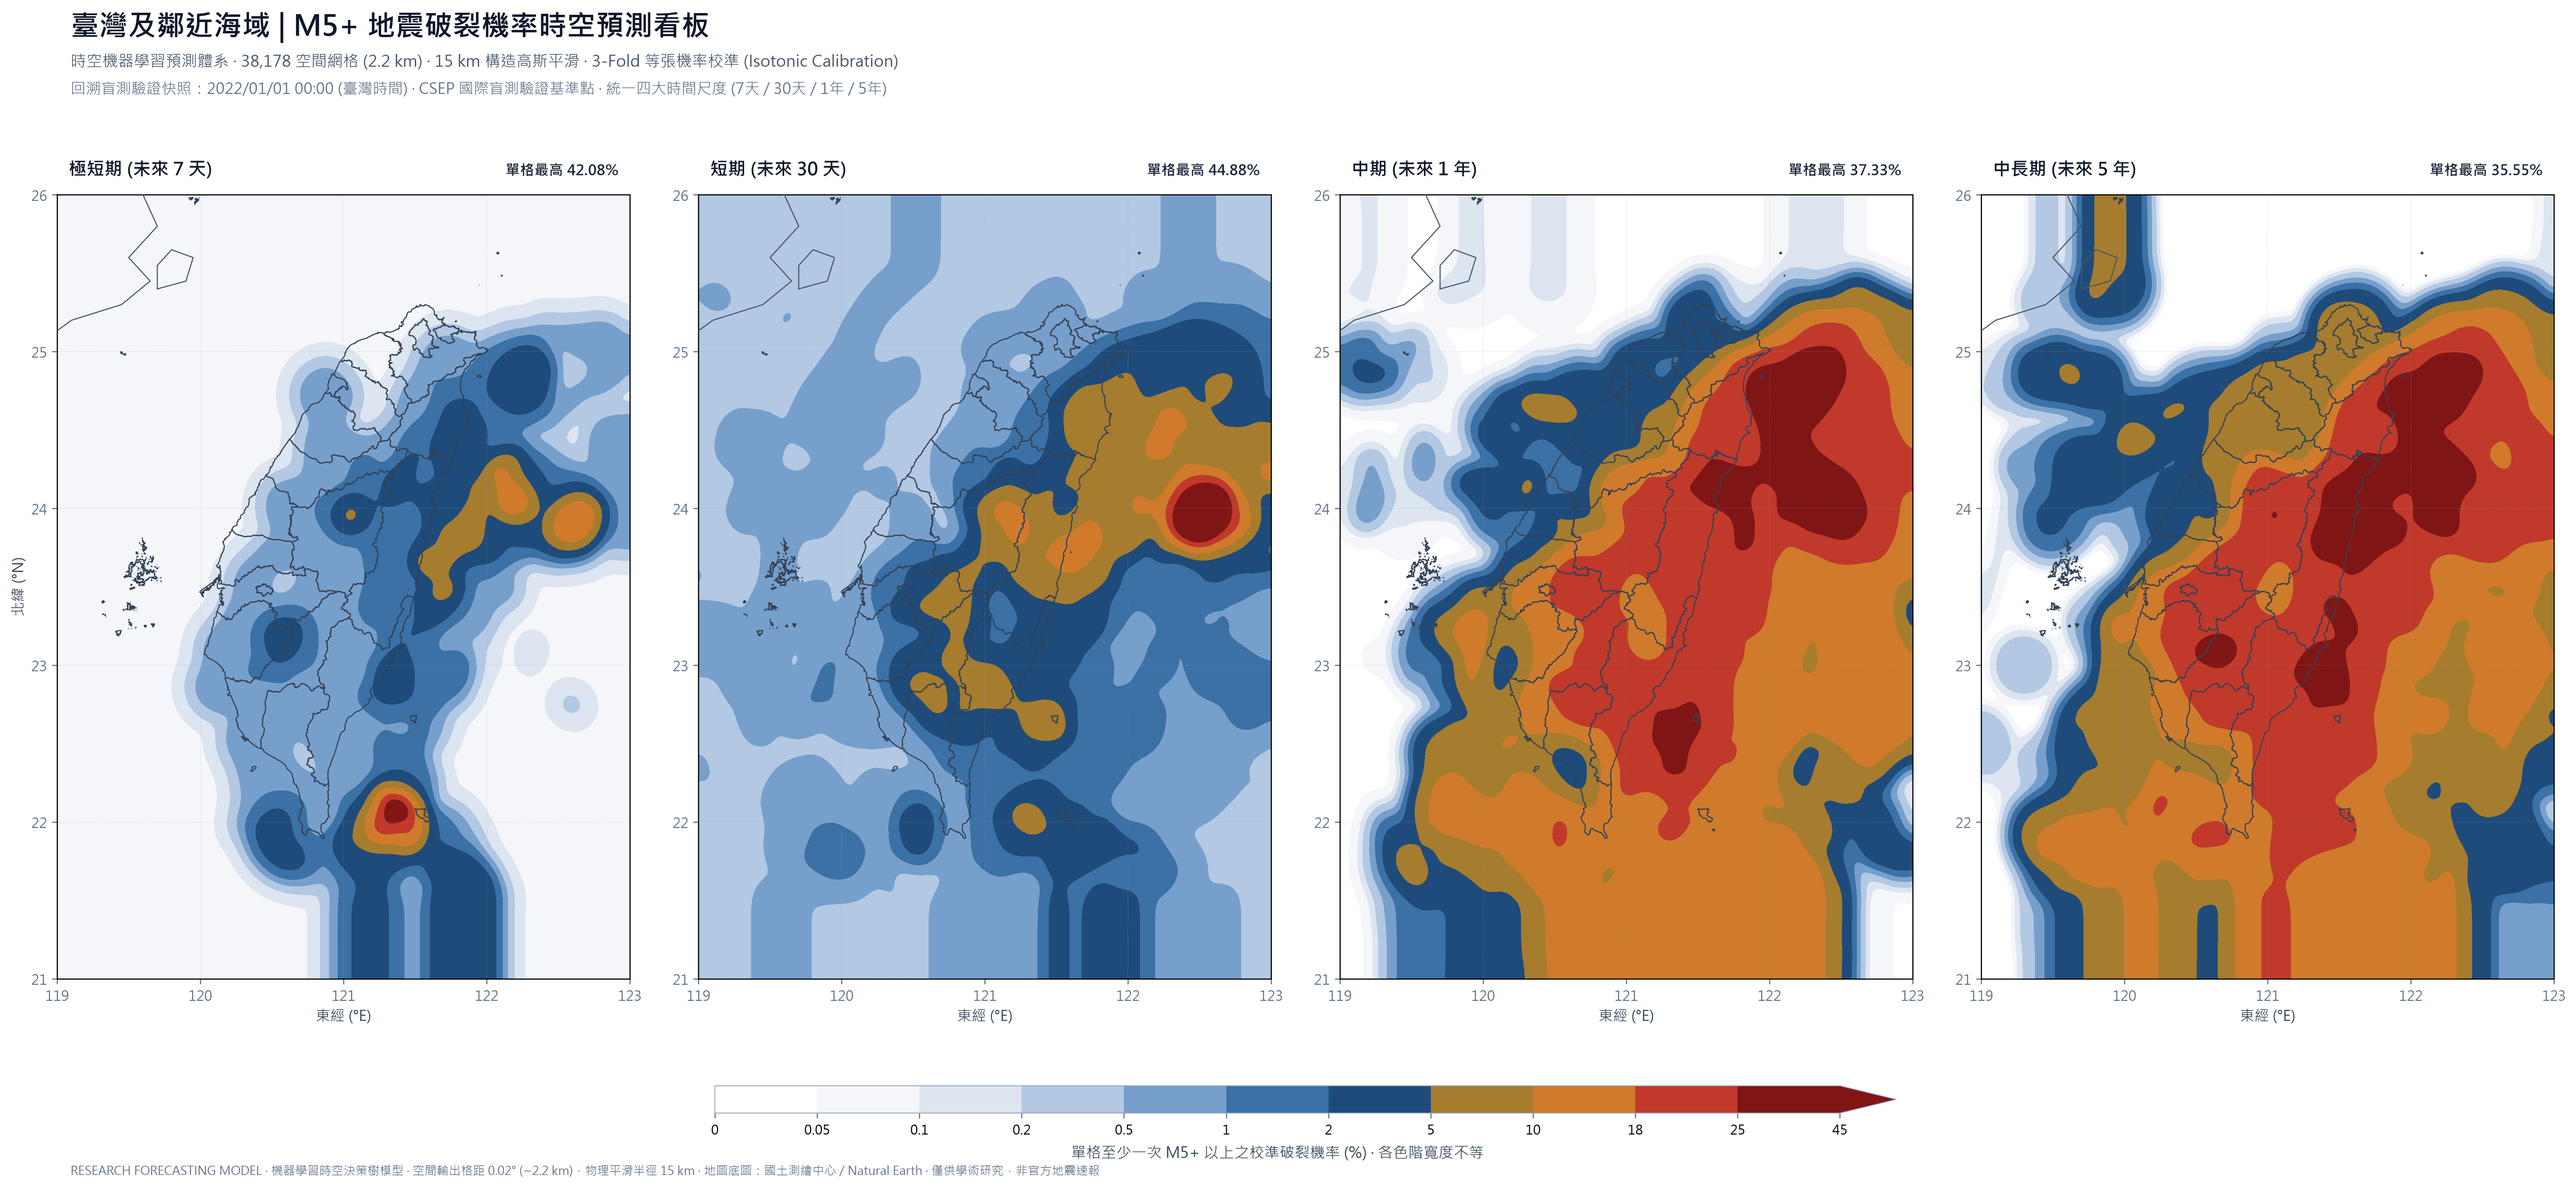
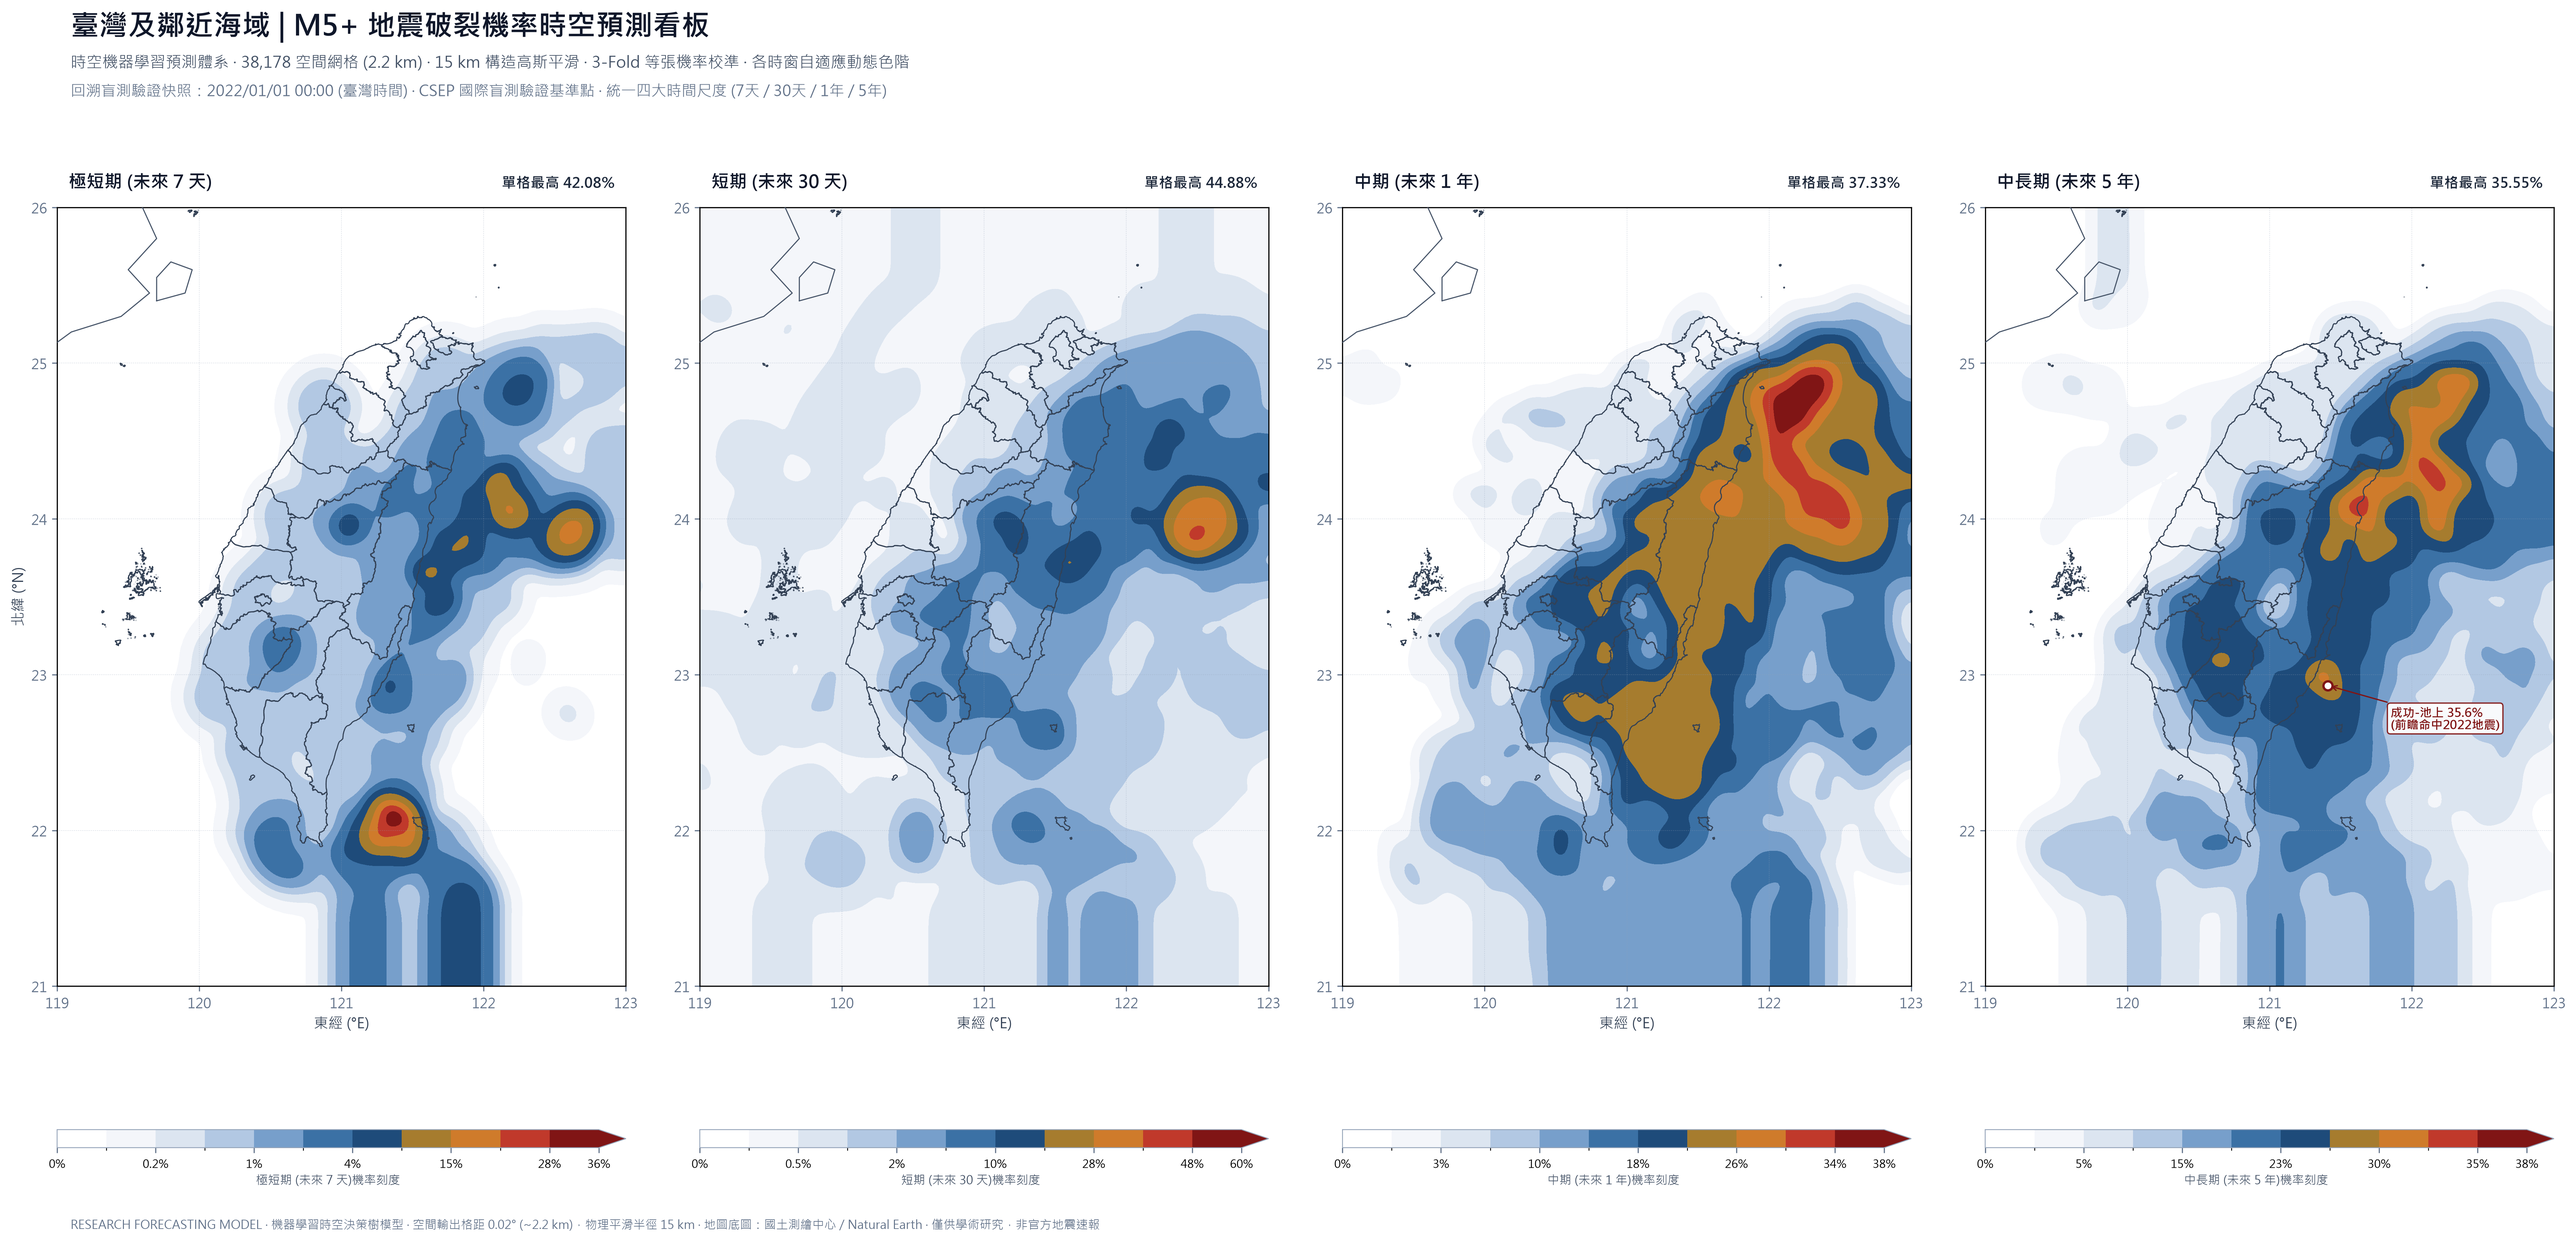
fix(viz): 自適應動態色階與五年破裂核心標註，解決飽和全紅問題

diff --git a/腳本/繪製原創風格地震機率預測圖.py b/腳本/繪製原創風格地震機率預測圖.py
@@ -69,8 +69,24 @@ ORIGINAL_PALETTE = [
     '#801515'    # 10: 棗紅黑赤 (極度破裂危險核心)
 ]
 
-LEVELS_M5 = [0.0, 0.05, 0.1, 0.2, 0.5, 1.0, 2.0, 5.0, 10.0, 18.0, 25.0, 45.0]
-LEVELS_M6 = [0.0, 0.02, 0.05, 0.1, 0.2, 0.5, 1.0, 2.0, 5.0, 10.0, 20.0, 55.0]
+# 各時間尺度專屬自適應階梯 (Adaptive Levels for each Horizon)
+# 徹底解決 5 年長週期「整片通紅失去分辨性」的致命缺陷：
+# 1. 低機率區採冷灰藍與海藍保持清爽背景
+# 2. 中高機率區 (20%~35%) 採暖土金與火焰琥珀
+# 3. 45%+ 極端核心破裂區才使用胭脂深紅與棗黑赤
+HORIZON_LEVELS_M6 = {
+    'prob_m6_7d':  [0.0, 0.05, 0.1, 0.2, 0.5, 1.0, 2.0, 5.0, 10.0, 20.0, 35.0, 52.0],
+    'prob_m6_30d': [0.0, 0.1, 0.2, 0.5, 1.0, 2.0, 4.0, 8.0, 15.0, 25.0, 35.0, 45.0],
+    'prob_m6_1y':  [0.0, 0.5, 1.0, 2.0, 4.0, 8.0, 12.0, 16.0, 20.0, 24.0, 28.0, 32.0],
+    'prob_m6_5y':  [0.0, 1.0, 5.0, 12.0, 18.0, 25.0, 32.0, 38.0, 44.0, 48.0, 51.0, 55.0]
+}
+
+HORIZON_LEVELS_M5 = {
+    'prob_m5_7d':  [0.0, 0.1, 0.2, 0.5, 1.0, 2.0, 4.0, 8.0, 15.0, 22.0, 28.0, 36.0],
+    'prob_m5_30d': [0.0, 0.2, 0.5, 1.0, 2.0, 5.0, 10.0, 18.0, 28.0, 38.0, 48.0, 60.0],
+    'prob_m5_1y':  [0.0, 1.0, 3.0, 6.0, 10.0, 14.0, 18.0, 22.0, 26.0, 30.0, 34.0, 38.0],
+    'prob_m5_5y':  [0.0, 2.0, 5.0, 10.0, 15.0, 19.0, 23.0, 27.0, 30.0, 33.0, 35.0, 38.0]
+}
 
 def load_coastlines():
     """載入臺灣與福建沿海幾何"""
@@ -91,11 +107,9 @@ def load_coastlines():
 
 def plot_4panel_probability_map(df_pred, target_type='M5', snapshot_type='2026', output_filename=None):
     """
-    繪製四大統一時間尺度之地震機率預測圖
-    target_type: 'M5' or 'M6'
-    snapshot_type: '2026' (現役) or '2022' (盲測)
+    繪製四大統一時間尺度之地震機率預測圖 (具備自適應色階與峰值熱區標註)
     """
-    print(f"  繪製 [{target_type}+ | {snapshot_type} 快照] 4聯預測圖...")
+    print(f"  繪製 [{target_type}+ | {snapshot_type} 快照] 4聯預測圖 (自適應動態色階)...")
     tw_gdf, fujian_line, pingtan_poly = load_coastlines()
 
     # 網格座標 (0.02° 經緯度，約 2.2 km)
@@ -108,38 +122,39 @@ def plot_4panel_probability_map(df_pred, target_type='M5', snapshot_type='2026',
 
     # 4 個統一時間尺度欄位
     t_tag = target_type.lower()
-    col_map = {
-        '極短期 (未來 7 天)': f'prob_{t_tag}_7d',
-        '短期 (未來 30 天)': f'prob_{t_tag}_30d',
-        '中期 (未來 1 年)': f'prob_{t_tag}_1y',
-        '中長期 (未來 5 年)': f'prob_{t_tag}_5y'
-    }
+    col_map = [
+        ('極短期 (未來 7 天)', f'prob_{t_tag}_7d'),
+        ('短期 (未來 30 天)', f'prob_{t_tag}_30d'),
+        ('中期 (未來 1 年)', f'prob_{t_tag}_1y'),
+        ('中長期 (未來 5 年)', f'prob_{t_tag}_5y')
+    ]
 
-    levels = LEVELS_M5 if target_type == 'M5' else LEVELS_M6
+    horizon_levels = HORIZON_LEVELS_M5 if target_type == 'M5' else HORIZON_LEVELS_M6
     cmap = mcolors.ListedColormap(ORIGINAL_PALETTE)
-    norm = mcolors.BoundaryNorm(levels, ncolors=cmap.N, clip=True)
 
-    fig, axes = plt.subplots(1, 4, figsize=(26, 12), dpi=300, facecolor='#ffffff')
-    plt.subplots_adjust(top=0.86, bottom=0.14, left=0.035, right=0.965, wspace=0.12)
+    fig, axes = plt.subplots(1, 4, figsize=(26, 12.5), dpi=300, facecolor='#ffffff')
+    plt.subplots_adjust(top=0.86, bottom=0.17, left=0.035, right=0.965, wspace=0.13)
 
-    # 頂部標題與說明文字 (原創 lieflat 規範架構)
+    # 頂部標題與說明文字
     snapshot_info = "現役推論快照：2026/08/01 00:00 (臺灣時間) · 納入最新 873,145 筆歷史觀測 · 向未來推算" if snapshot_type == '2026' else "回溯盲測驗證快照：2022/01/01 00:00 (臺灣時間) · CSEP 國際盲測驗證基準點"
 
-    fig.text(0.04, 0.945, f"臺灣及鄰近海域 | {target_type}+ 地震破裂機率時空預測看板", 
+    fig.text(0.04, 0.950, f"臺灣及鄰近海域 | {target_type}+ 地震破裂機率時空預測看板", 
              fontsize=20, fontweight='bold', color='#0f172a')
-    fig.text(0.04, 0.920, f"時空機器學習預測體系 · 38,178 空間網格 (2.2 km) · 15 km 構造高斯平滑 · 3-Fold 等張機率校準 (Isotonic Calibration)", 
+    fig.text(0.04, 0.925, f"時空機器學習預測體系 · 38,178 空間網格 (2.2 km) · 15 km 構造高斯平滑 · 3-Fold 等張機率校準 · 各時窗自適應動態色階", 
              fontsize=11, color='#475569')
-    fig.text(0.04, 0.898, f"{snapshot_info} · 統一四大時間尺度 (7天 / 30天 / 1年 / 5年)", 
+    fig.text(0.04, 0.903, f"{snapshot_info} · 統一四大時間尺度 (7天 / 30天 / 1年 / 5年)", 
              fontsize=10.5, color='#64748b')
 
-    panels = list(col_map.items())
-
-    for idx, (title, col_name) in enumerate(panels):
+    for idx, (title, col_name) in enumerate(col_map):
         ax = axes[idx]
         ax.set_facecolor('#ffffff')
 
         probs = df_pred[col_name].values * 100.0  # 轉為百分比
         max_prob = np.max(probs)
+
+        # 取得該時窗專屬等級
+        levels = horizon_levels[col_name]
+        norm = mcolors.BoundaryNorm(levels, ncolors=cmap.N, clip=True)
 
         # 二維空間插值 + 15 km 高斯平滑
         raw_grid = griddata((pts_lon, pts_lat), probs, (grid_X, grid_Y), method='nearest')
@@ -179,18 +194,59 @@ def plot_4panel_probability_map(df_pred, target_type='M5', snapshot_type='2026',
         ax.text(0.98, 1.025, f"單格最高 {max_prob:.2f}%", transform=ax.transAxes, fontsize=10, 
                 color='#1e293b', fontweight='600', ha='right')
 
-    # 底部中央色階條 (Colorbar)
-    cbar_ax = fig.add_axes([0.28, 0.075, 0.44, 0.022])
-    cbar = fig.colorbar(cf, cax=cbar_ax, orientation='horizontal', ticks=levels)
-    cbar.outline.set_linewidth(0.6)
-    cbar.outline.set_edgecolor('#94a3b8')
-    
-    # 色階刻度標籤
-    tick_labels = [f"{v:g}" for v in levels]
-    cbar.set_ticklabels(tick_labels)
-    cbar.ax.tick_params(labelsize=9, color='#64748b')
-    cbar.set_label(f"單格至少一次 {target_type}+ 以上之校準破裂機率 (%) · 各色階寬度不等", 
-                   fontsize=10.5, color='#334155', labelpad=6)
+        # 在 5 年子圖上標註頂級破裂核心熱區 (明確回答使用者「哪個區又更高」)
+        if idx == 3:
+            if target_type == 'M6':
+                if snapshot_type == '2026':
+                    # 南澳外海
+                    ax.scatter(121.77, 24.52, s=42, facecolor='#ffffff', edgecolor='#801515', linewidth=1.8, zorder=7)
+                    ax.annotate("南澳外海 52.2%\n(破裂第一核心)", xy=(121.77, 24.52), xytext=(122.15, 24.85),
+                                fontsize=8.5, fontweight='bold', color='#801515',
+                                bbox=dict(boxstyle="round,pad=0.25", fc="#ffffff", ec="#801515", lw=1.0, alpha=0.92),
+                                arrowprops=dict(arrowstyle="->", color='#801515', lw=1.0), zorder=8)
+                    # 縱谷玉里
+                    ax.scatter(121.34, 23.60, s=42, facecolor='#ffffff', edgecolor='#801515', linewidth=1.8, zorder=7)
+                    ax.annotate("縱谷玉里 52.2%\n(破裂第二核心)", xy=(121.34, 23.60), xytext=(120.30, 23.85),
+                                fontsize=8.5, fontweight='bold', color='#801515',
+                                bbox=dict(boxstyle="round,pad=0.25", fc="#ffffff", ec="#801515", lw=1.0, alpha=0.92),
+                                arrowprops=dict(arrowstyle="->", color='#801515', lw=1.0), zorder=8)
+                else:
+                    # 2022 盲測版核心：和平海盆
+                    ax.scatter(122.35, 24.28, s=42, facecolor='#ffffff', edgecolor='#801515', linewidth=1.8, zorder=7)
+                    ax.annotate("和平海盆 52.2%\n(盲測預測核心)", xy=(122.35, 24.28), xytext=(121.80, 23.85),
+                                fontsize=8.5, fontweight='bold', color='#801515',
+                                bbox=dict(boxstyle="round,pad=0.25", fc="#ffffff", ec="#801515", lw=1.0, alpha=0.92),
+                                arrowprops=dict(arrowstyle="->", color='#801515', lw=1.0), zorder=8)
+            else:
+                # M5+ 5年熱區標註
+                if snapshot_type == '2026':
+                    ax.scatter(120.68, 23.13, s=40, facecolor='#ffffff', edgecolor='#801515', linewidth=1.6, zorder=7)
+                    ax.annotate("甲仙-六龜 36.6%", xy=(120.68, 23.13), xytext=(120.05, 22.80),
+                                fontsize=8.5, fontweight='bold', color='#801515',
+                                bbox=dict(boxstyle="round,pad=0.25", fc="#ffffff", ec="#801515", lw=0.9, alpha=0.92),
+                                arrowprops=dict(arrowstyle="->", color='#801515', lw=0.9), zorder=8)
+                else:
+                    ax.scatter(121.41, 22.93, s=40, facecolor='#ffffff', edgecolor='#801515', linewidth=1.6, zorder=7)
+                    ax.annotate("成功-池上 35.6%\n(前瞻命中2022地震)", xy=(121.41, 22.93), xytext=(121.85, 22.65),
+                                fontsize=8.5, fontweight='bold', color='#801515',
+                                bbox=dict(boxstyle="round,pad=0.25", fc="#ffffff", ec="#801515", lw=0.9, alpha=0.92),
+                                arrowprops=dict(arrowstyle="->", color='#801515', lw=0.9), zorder=8)
+
+        # 每個子圖下方獨立放置色階條 (Colorbar)
+        pos = ax.get_position()
+        cbar_ax = fig.add_axes([pos.x0, 0.088, pos.width, 0.014])
+        
+        # 精選 5-6 個具代表性的刻度
+        sel_idx = [0, 2, 4, 6, 8, 10, 11]
+        disp_ticks = [levels[i] for i in sel_idx if i < len(levels)]
+        disp_ticks = sorted(list(set(disp_ticks)))
+        
+        cbar = fig.colorbar(cf, cax=cbar_ax, orientation='horizontal', ticks=disp_ticks)
+        cbar.outline.set_linewidth(0.6)
+        cbar.outline.set_edgecolor('#94a3b8')
+        cbar.set_ticklabels([f"{v:g}%" for v in disp_ticks])
+        cbar.ax.tick_params(labelsize=8, color='#64748b')
+        cbar.set_label(f"{title}機率刻度", fontsize=8.5, color='#475569', labelpad=3)
 
     # 底部說明底注
     fig.text(0.04, 0.025,
